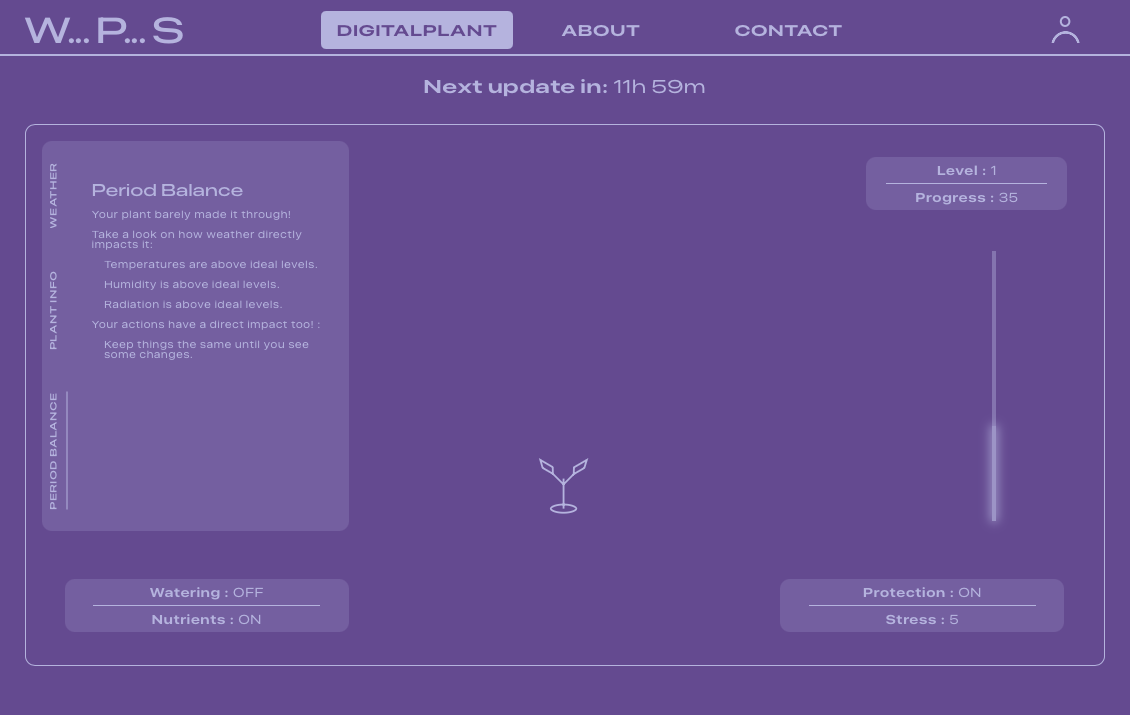
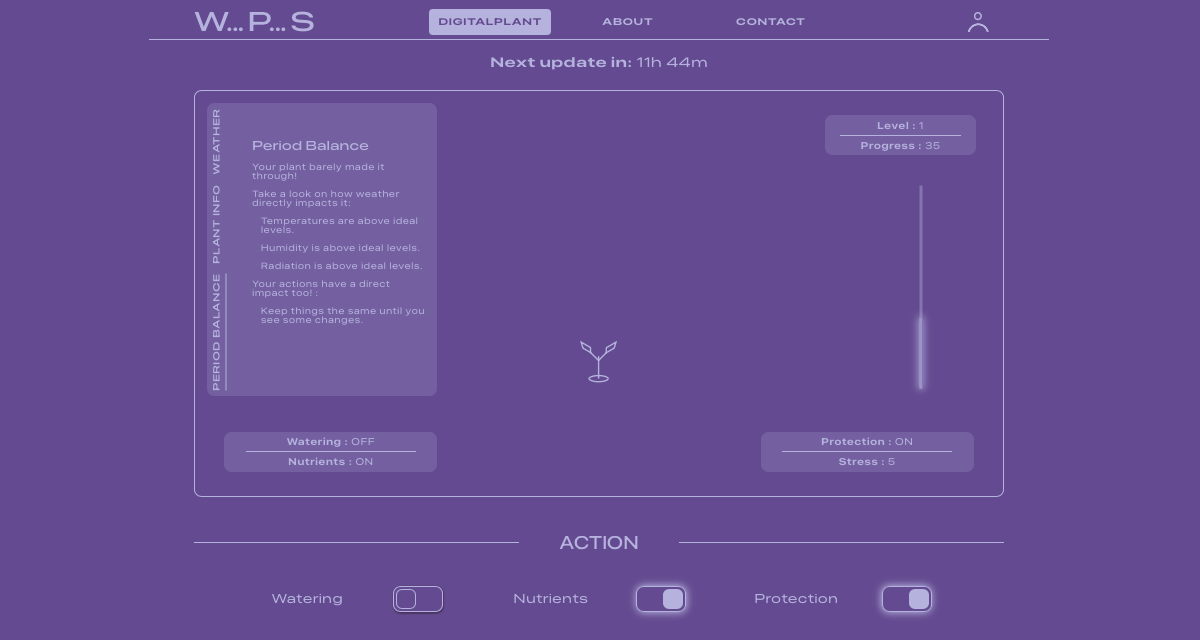
metaDataIMGEdit

diff --git a/index.html b/index.html
@@ -3,7 +3,7 @@
 
 <head>
   <meta charset="UTF-8" />
-  <link rel="icon" type="icon image" href="/icon.png" />
+  <link rel="icon" type="image/svg" href="/public/Plant_Graphic.svg" />
   <meta name="viewport" content="width=device-width, initial-scale=1.0" />
   <meta name="description" content="DigitalPlant is a dashboard for monitoring plants, weather, and account data." />
   <meta property="og:site_name" content="DigitalPlant" />
@@ -12,7 +12,7 @@
   <meta property="og:image" content="/DigitalPlant_ogScreen.png" />
   <meta property="og:type" content="website" />
   <meta name="twitter:card" content="summary_large_image" />
-  <meta name="twitter:image" content="//DigitalPlant_ogScreen.png" />
+  <meta name="twitter:image" content="/DigitalPlant_ogScreen.png" />
   <title>DigitalPlant | When... Plants... Sing</title>
 </head>
 
